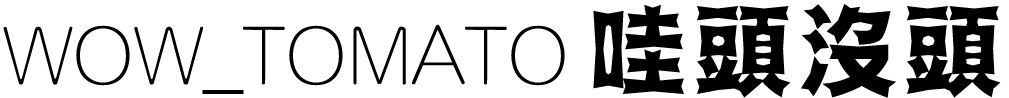
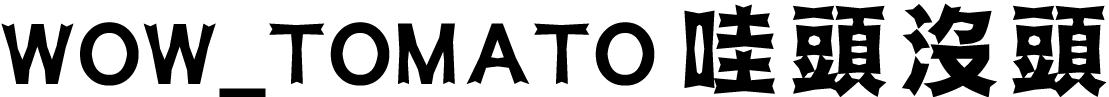
3rd Version

diff --git a/index.html b/index.html
@@ -35,7 +35,7 @@
 				<!-- Header -->
 					<header id="header" class="alt">
 						<!-- <span class="logo"><img src="images/logo.svg" alt="" /></span> -->
-						<h1>我是哇頭沒頭</h1>
+						<span class="title"><img src="images/head.png" alt="" style="width:13.5em"/></span>
 						<p><span id="target"></span><span id="cursor"></span></p>
 					</header>
 
@@ -60,7 +60,11 @@
 										<header class="major">
 											<span class="title"><img src="images/title.png" alt="" /></span>
 										</header>
-										<p style="text-align: justify;">哈囉，我是哇頭沒頭，也可以叫我小茄，是名龍控、貓控。致力於推廣遊戲，有寫評論文或製作推坑的影片及實況 Steam 平台的遊戲。</p><p style="text-align: justify;">可以在 Twitch 實況、Youtube 影片及遊戲評論文中發現我的足跡。</p>
+										<div style="letter-spacing: 0.1em; color:black;">
+											<p>哈囉，我是哇頭沒頭，也可以叫我小茄，是名龍控、貓控。</p>
+											<p>致力於推廣遊戲，有寫評論文或製作推坑影片及實況遊戲。</p>
+											<p>可以在 Twitch 實況、Youtube 影片及遊戲評論文中發現我的足跡。</p>
+										</div>
 										<!-- <ul class="actions">
 											<li><a href="generic.html" class="button">Learn More</a></li>
 										</ul> -->
@@ -74,8 +78,8 @@
 								<div class="spotlight">
 									<div class="content">
 										<header class="major">
-											<span class="subtitle"><img src="images/title_communities.png" alt="" style="width:4.2em"/><h2></h2></span>
-											<p style="text-align:center">點選圖片前往各種社群網站</p>
+											<span class="subtitle"><img src="images/title_communities.png" alt="" style="width:4.5em"/><h2></h2></span>
+											<p style="text-align:center; letter-spacing: 0.1em; color:black; margin-bottom:1.5em;">點選圖片前往各種社群網站</p>
 										</header>
 										<ul class="features">
 											<li>
@@ -107,7 +111,7 @@
 						<!-- Videos -->
 							<section id="videos" class="main special">
 								<header class="major">
-									<span class="subtitle"><img src="images/title_videos.png" alt=""  style="width:15.4em"/><h2></h2></span>
+									<span class="subtitle"><img src="images/title_videos.png" alt=""  style="width:15.8em"/><h2></h2></span>
 								</header>
 								<ul class="videos">
 									<li><div class="container"><iframe src="https://www.youtube.com/embed/p6M3dO1WYm0" frameborder="0" allow="autoplay; encrypted-media" allowfullscreen></iframe></div></li>
@@ -130,7 +134,7 @@
 							<div class="spotlight">
 								<div class="content">
 									<header class="major">
-											<span class="subtitle"><img src="images/title_biz.png" alt=""  style="width:8.6em"/><h2></h2></span>
+											<span class="subtitle"><img src="images/title_biz.png" alt=""  style="width:9em"/><h2></h2></span>
 									</header>
 									<ul class="statistics">
 										<li class="style1">
@@ -160,13 +164,14 @@
 				<!-- Footer -->
 					<footer id="footer">
 						<section id="contact">
-							<div >
-								<h2 style="color:#000000">若需詳談合作邀約，請使用電子郵件或表單與我聯繫</h4>
-								<dl class="alt" >
-									<dt style="color:#000000">E-mail</dt>
-									<dd><a style="color:#000000" href="mailto:wowtomatowo@gmail.com">wowtomatowo@gmail.com</a></dd>
-								</dl>
-							</div>	
+							
+							<h2 style="color:#000000">若需詳談合作邀約，請使用電子郵件或表單與我聯繫</h2>
+							<p style="color:#000000;font-size:1.5em; letter-spacing:0.08em;margin-bottom:1.2em;">E-mail: <a style="color:#000000;border-bottom:dotted 1px rgba(0,0,0,0.5);" href="mailto:wowtomatowo@gmail.com">wowtomatowo@gmail.com</a></h2>
+							<!-- <dl class="alt" >
+								<dt style="color:#000000">E-mail</dt>
+								<dd><a style="color:#000000" href="mailto:wowtomatowo@gmail.com">wowtomatowo@gmail.com</a></dd>
+							</dl> -->
+							
 							<ul class="icons">
 								<li><a href="#" class="icon fa-steam alt"><span class="label">Twitter</span></a></li>
 								<li><a href="#" class="icon fa-twitch alt"><span class="label">Facebook</span></a></li>

diff --git a/assets/css/main.css b/assets/css/main.css
@@ -1712,7 +1712,7 @@
 		}
 
 		.content p {		
-			margin-bottom: 0.5em;
+			margin-bottom: 0.4em;
 		}
 		
 
@@ -1720,7 +1720,7 @@
 		font-weight: 300;
 		line-height: 1.5;
 		margin: 0 0 0.7em 0;
-		letter-spacing: 0.025em;
+		letter-spacing: 0.1em;
 	}
 
 		h1 a, h2 a, h3 a, h4 a, h5 a, h6 a {
@@ -2545,7 +2545,7 @@
 
 			ul.icons li {
 				display: inline-block;
-				padding: 0 0.65em 0 0;
+				padding: 0 1.3em 0 0;
 			}
 
 				ul.icons li:last-child {
@@ -3102,7 +3102,7 @@
 		-webkit-align-items: center;
 		-ms-align-items: center;
 		align-items: center;
-		margin: 0 0 2em 0;
+		margin: 0;
 	}
 
 		.spotlight .content {
@@ -3140,7 +3140,7 @@
 
 			.spotlight .title img {
 				display: block;
-				width: 20em;
+				width: 19em;
 			}
 
 		.spotlight .subtitle {
@@ -3191,8 +3191,8 @@
 				.spotlight .image img {
 					width: 12em;
 				}
-
 		}
+
 
 	.spotlight .image {
 		border-color: rgba(255, 255, 255, 0.35);
@@ -3285,7 +3285,7 @@
 
 				#header p {
 					font-size: 1em;
-					letter-spacing: 0;
+					letter-spacing: 0.1em;
 				}
 
 					#header p br {
@@ -3830,7 +3830,7 @@
 	}
 
 		#footer > * {
-			width: calc(50% - 3em);
+			width: calc(50% - 3.7em);
 			margin-left: 3em;
 		}
 
@@ -3904,13 +3904,14 @@
 	}
 
 	#biz strong {
-		letter-spacing: 0.05em;
+		letter-spacing: 0.12em;
 		margin-top: 0.25em;
 		font-size: 1.6em;
 	}
 
 	#biz p {
 		font-size: 0.9em;
+		letter-spacing: 0.1em;
 		margin: 0;
 	}
 
